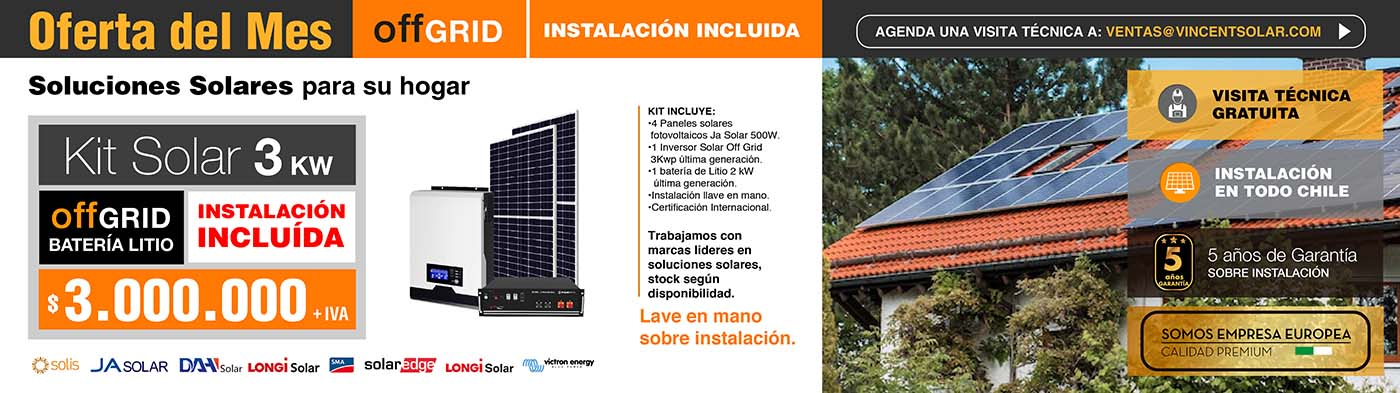
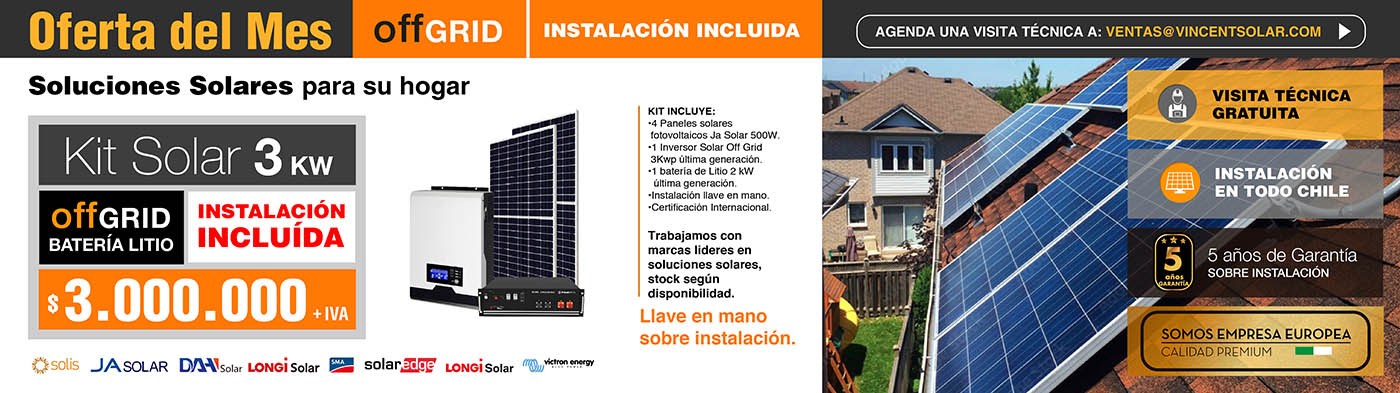
nuevos anchos flyers

diff --git a/index.html b/index.html
@@ -238,15 +238,67 @@
                 <div class="swiper-wrapper">
 
                     <div class="swiper-slide">
-                        <a class="oferta-wide-container" href="ofertas/index.html#ongrid_3"
-                            style="background-image: url(wp-content/themes/vincent/image/banner_ofertas/oferta-3.jpg);">
+                        <a class="oferta-wide-container" href="ofertas/index.html#ongrid_3" 
+                            style="background-image: url(/images/flyers/Flyer-Horizontal-On-3.4kw-01.jpg);">
+    
                         </a>
-                    </div>
 
-                    <div class="swiper-slide" id="soluciones">
-                        <a class="oferta-wide-container" href="ofertas/index.html#offgrid_3"
-                            style="background-image: url(wp-content/themes/vincent/image/banner_ofertas/oferta-1.jpg);">
+                    </div>
+                    <div class="swiper-slide">
+                        <a class="oferta-wide-container" href="ofertas/index.html#ongrid_5" 
+                            style="background-image: url(/images/flyers/Flyer-Horizontal-On-5.0kw-01.jpg);">
+    
                         </a>
+
+                    </div>
+                    <div class="swiper-slide">
+                        <a class="oferta-wide-container" href="ofertas/index.html#ongrid_2" 
+                            style="background-image: url(/images/flyers/Flyer-Horizontal-On-2.0kw-01.jpg);">
+    
+                        </a>
+
+                    </div>
+                    <div class="swiper-slide">
+                        <a class="oferta-wide-container" href="ofertas/index.html#ongrid_10" 
+                            style="background-image: url(/images/flyers/Flyer-Horizontal-On-10kw-01.jpg);">
+    
+                        </a>
+
+                    </div>
+                    <div class="swiper-slide">
+                        <a class="oferta-wide-container" href="ofertas/index.html#hibrido_5" 
+                            style="background-image: url(/images/flyers/Flyer-Horizontal-Hibrido-01.jpg);">
+    
+                        </a>
+
+                    </div>
+                    <div class="swiper-slide">
+                        <a class="oferta-wide-container" href="ofertas/index.html#offgrid_3" 
+                            style="background-image: url(/images/flyers/Flyer-Horizontal-Off-3kw-01.jpg);">
+    
+                        </a>
+
+                    </div>
+                    <div class="swiper-slide">
+                        <a class="oferta-wide-container" href="ofertas/index.html#offgrid_5" 
+                            style="background-image: url(/images/flyers/Flyer-Horizontal-Off-5kw-01.jpg);">
+    
+                        </a>
+
+                    </div>
+                    <div class="swiper-slide">
+                        <a class="oferta-wide-container" href="ofertas/index.html#offgrid_6" 
+                            style="background-image: url(/images/flyers/Flyer-Horizontal-Off-6kw-01.jpg);">
+    
+                        </a>
+
+                    </div>
+                    <div class="swiper-slide">
+                        <a class="oferta-wide-container" href="ofertas/index.html#offgrid_10" 
+                            style="background-image: url(/images/flyers/Flyer-Horizontal-Off-10kw-01.jpg);">
+    
+                        </a>
+
                     </div>
                 </div>
             </div>
